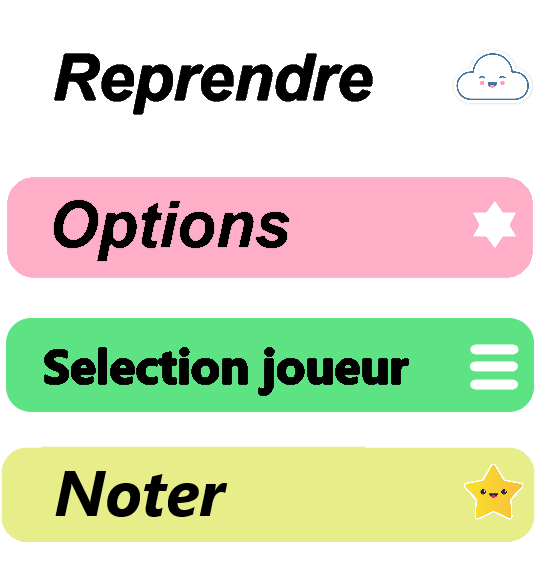
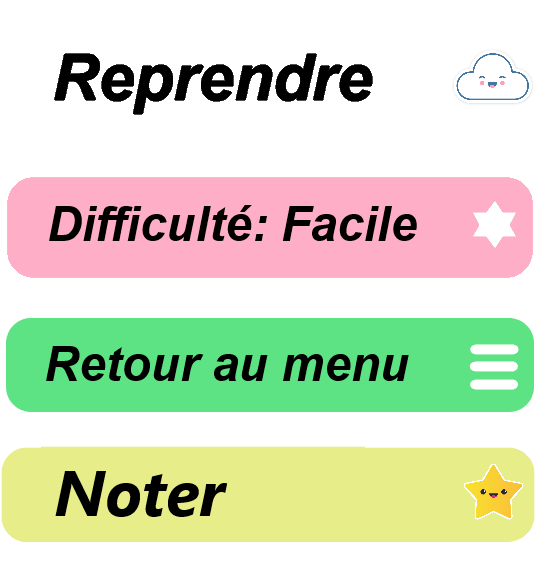
ajout difficulté

Changed region(s): [[0.0595, 0.5886, 0.7732, 0.6816], [0.0892, 0.3408, 0.7732, 0.4647]]

diff --git a/src/js/renderer.js b/src/js/renderer.js
@@ -11,24 +11,23 @@ canvas.width = window.innerWidth;
 canvas.height = window.innerHeight;
 //<a href='https://fr.freepik.com/vecteurs/fond'>Fond vecteur créé par articular - fr.freepik.com</a>
 var listeImage = ['../../media/balloon.png','../../media/balloon (2).png','../../media/balloon (3).png','../../media/balloon (4).png','../../media/balloon (5).png','../../media/balloon (6).png'];//https://pixabay.com/fr/vectors/ballon-couleur-anniversaire-2514738/
-var bruitageBallon = new Audio('../../sons/eclatementBallon.wav');//https://lasonotheque.org/detail-1826-ballon-contre-mur-2.html
+var menuPause = ['../../media/menu2.png','../../media/menu3.png','../../media/menu4.png'];
+let indiceMenu = 0;
 var CouleurActuel = 0;
 var tableauBallon = new Array();
 var speed = canvas.width/600;
-const speedMax = canvas.width/550;
+var speedMax = canvas.width/550;
 let i = 0;
 let nbBallon = 0;
 let nbBallonMax = 7;
 let jeuEnCours = true;
 let boutonPause = new Image();
 boutonPause.src = '../../media/boutonPause.png';//<a href='https://fr.pngtree.com/so/pause'>pause png de fr.pngtree.com</a>
-let menu = new Image();
-menu.src = '../../media/menu2.png';//fait sur paint
 let isClicking = true;
 
 //dimension des ballons à dessiner dans le canvas
-let largeurBallon = (canvas.height+canvas.width)/17;
-let hauteurBallon = largeurBallon *1.25;
+var largeurBallon = (canvas.height+canvas.width)/12;
+var hauteurBallon = largeurBallon *1.25;
 
 let mx=0;//coordonne x du clic
 let my=0;//coordonne y du clic
@@ -49,17 +48,9 @@ document.addEventListener('touchstart', e => {
     my = e.touches[0].clientY;
   });
 
-//autoriser les glissement de doigts pour éclater les ballons
-document.addEventListener('touchmove', e => {
-    isClicking = true;
-    mx = e.touches[0].clientX;
-    my = e.touches[0].clientY;
-  });
-  
-  
 document.addEventListener('touchend', e => {
     if (isClicking == true) {
-      setTimeout(finClick,10);
+        setTimeout(finClick,10);
     }
   });  
 
@@ -113,6 +104,7 @@ class ballon{
         if(this.x<mx && mx<(this.x+largeurBallon)){
             if(this.y<my && my<(this.y+hauteurBallon)){
                 this.click = true;
+                var bruitageBallon = new Audio('../../sons/eclatementBallon.wav');//https://lasonotheque.org/detail-1826-ballon-contre-mur-2.html
                 bruitageBallon.play();
             }
         }
@@ -152,14 +144,20 @@ function enCours(boolean){
 }
 
 function actionMenue(){
+    var menu = new Image();
+    menu.src = menuPause[indiceMenu];
+    ctx.drawImage(menu,canvas.width/3,canvas.height/4,canvas.width/3,canvas.width/3);
     if(canvas.width/3<mx && mx<(canvas.width*2)/3){
         if((canvas.height/4+canvas.width/12)<my && my<(canvas.height/4+canvas.width/6)){
-            //Options a programmer.
+            my=0;
+            mx=0;
+            changementIndice();
+            setDifficulte();
         }
     }
     if(canvas.width/3<mx && mx<(canvas.width*2)/3){
         if((canvas.height/4+canvas.width/6)<my && my<(canvas.height/4+canvas.width/4)){
-            document.location.href="../html/select.html";
+            document.location.href="../../index.html";
         }
     }
     if(canvas.width/3<mx && mx<(canvas.width*2)/3){
@@ -167,6 +165,34 @@ function actionMenue(){
             document.location.href="../html/note.html"; 
         }
     }
+}
+
+function changementIndice(){
+    if (indiceMenu==2){
+        indiceMenu=0;
+    }else{
+        indiceMenu=indiceMenu+1;
+    }
+}
+
+function setDifficulte(){
+    if (indiceMenu==0){
+        speed = canvas.width/600;
+        speedMax = canvas.width/550;
+        largeurBallon = (canvas.height+canvas.width)/12;
+        hauteurBallon = largeurBallon *1.25;    
+    }else if (indiceMenu==1){
+        speed = canvas.width/500;
+        speedMax = canvas.width/450;
+         largeurBallon = (canvas.height+canvas.width)/14;
+         hauteurBallon = largeurBallon *1.25;
+    }else{
+        speed = canvas.width/350;
+        speedMax = canvas.width/300;
+         largeurBallon = (canvas.height+canvas.width)/16;
+         hauteurBallon = largeurBallon *1.25;
+    }
+
 }
 
 function ajoutBallon(){
@@ -214,9 +240,8 @@ const render = () => {
             if (jeuEnCours){
                 element.avance();
                 ctx.drawImage(boutonPause,canvas.width*0.9,0,canvas.width*0.1,canvas.width*0.1);
-            }else{
-                ctx.drawImage(menu,canvas.width/3,canvas.height/4,canvas.width/3,canvas.width/3);
-                actionMenue();
+            }else{             
+                actionMenue();               
             }
             
         });
